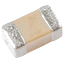
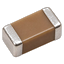
v3.2: light theme matching live xinhertz.top (white/#f3f7ff, --blue #0b5ed7); MLCC cursor rebuilt from user's real photo; soft contact shadow

diff --git a/index.html b/index.html
@@ -7,28 +7,26 @@
 <meta name="description" content="Test playground: SOP-16 viewed flat — slide across the package to reveal 'Xinhertz — NXP Distributor' printed on the mold. MLCC cursor.">
 <style>
   :root{
-    --bg:#070b14; --ink:#e8eef7; --dim:#9aa7bd;
-    --xray:#7fd4ff; --gold:#ffd27f;
+    --bg:#ffffff; --bg2:#f3f7ff; --text:#12233f; --muted:#5b7194; --line:#d9e5fa;
+    --blue:#0b5ed7; --blue-dark:#0849a8; --gold:#ffd27f;
   }
   *{ margin:0; padding:0; box-sizing:border-box; }
   html,body{ height:100%; }
   body{
-    background:
-      radial-gradient(1100px 600px at 78% 30%, rgba(64,120,220,.14), transparent 60%),
-      radial-gradient(800px 500px at 12% 85%, rgba(127,212,255,.06), transparent 60%),
-      var(--bg);
-    color:var(--ink);
+    background:linear-gradient(180deg,#f3f7ff 0%,#ffffff 100%);
+    background-attachment:fixed;
+    color:var(--text);
     font-family:"Inter","Helvetica Neue",Arial,"PingFang SC","Microsoft YaHei",sans-serif;
     overflow-x:hidden;
   }
-  /* ---- MLCC capacitor cursor (3/4 angle), site-wide (demo) ---- */
-  body, body *{ cursor:url('assets/mlcc-cursor.png') 10 50, auto !important; }
+  /* ---- MLCC capacitor cursor (user's real photo), site-wide (demo) ---- */
+  body, body *{ cursor:url('assets/mlcc-cursor.png') 8 52, auto !important; }
 
   .grid-bg{
     position:fixed; inset:0; pointer-events:none; opacity:.5;
     background-image:
-      linear-gradient(rgba(127,212,255,.045) 1px, transparent 1px),
-      linear-gradient(90deg, rgba(127,212,255,.045) 1px, transparent 1px);
+      linear-gradient(rgba(11,94,215,.055) 1px, transparent 1px),
+      linear-gradient(90deg, rgba(11,94,215,.055) 1px, transparent 1px);
     background-size:44px 44px;
     -webkit-mask-image:radial-gradient(ellipse 90% 80% at 50% 40%, black 30%, transparent 75%);
     mask-image:radial-gradient(ellipse 90% 80% at 50% 40%, black 30%, transparent 75%);
@@ -36,8 +34,8 @@
 
   .badge{
     position:fixed; top:18px; right:20px; z-index:20;
-    font-size:11px; letter-spacing:.22em; color:#0a0f1a;
-    background:linear-gradient(135deg,var(--gold),#ffb35c);
+    font-size:11px; letter-spacing:.22em; color:#fff;
+    background:var(--blue);
     padding:7px 14px; border-radius:999px; font-weight:700;
   }
 
@@ -47,27 +45,27 @@
     align-items:center; padding:72px 40px 40px; position:relative; z-index:2;
   }
   .eyebrow{
-    font-size:12px; letter-spacing:.34em; color:var(--xray);
+    font-size:12px; letter-spacing:.34em; color:var(--blue);
     margin-bottom:22px; font-weight:600;
   }
   h1{
     font-size:clamp(40px,5.2vw,72px); line-height:1.04; font-weight:800;
     letter-spacing:-0.01em; margin-bottom:20px;
   }
-  h1 .x{ color:var(--xray); }
-  .sub{ font-size:16.5px; line-height:1.75; color:var(--dim); max-width:46ch; margin-bottom:30px; }
-  .sub b{ color:var(--ink); font-weight:600; }
+  h1 .x{ color:var(--blue); }
+  .sub{ font-size:16.5px; line-height:1.75; color:var(--muted); max-width:46ch; margin-bottom:30px; }
+  .sub b{ color:var(--text); font-weight:600; }
   .hint{
     display:inline-flex; align-items:center; gap:10px;
-    border:1px solid rgba(127,212,255,.35); border-radius:999px;
-    padding:10px 18px; font-size:13.5px; color:#cfe9ff;
-    background:rgba(20,40,70,.35);
+    border:1px solid var(--line); border-radius:999px;
+    padding:10px 18px; font-size:13.5px; color:var(--text);
+    background:#fff; box-shadow:0 6px 20px rgba(11,94,215,.08);
   }
-  .hint .dot{ width:9px; height:9px; border-radius:50%; background:var(--xray);
-    box-shadow:0 0 12px var(--xray); animation:pulse 1.8s infinite; }
+  .hint .dot{ width:9px; height:9px; border-radius:50%; background:var(--blue);
+    box-shadow:0 0 12px rgba(11,94,215,.6); animation:pulse 1.8s infinite; }
   @keyframes pulse{ 0%,100%{opacity:1; transform:scale(1);} 50%{opacity:.45; transform:scale(.8);} }
-  .meta{ margin-top:34px; font-size:12px; color:#5c6a84; letter-spacing:.06em; line-height:2; }
-  .meta code{ color:#8fa0bb; background:rgba(255,255,255,.05); padding:2px 8px; border-radius:6px; }
+  .meta{ margin-top:34px; font-size:12px; color:#9aa3b2; letter-spacing:.06em; line-height:2; }
+  .meta code{ color:var(--muted); background:#eef4ff; padding:2px 8px; border-radius:6px; }
 
   #stage{ position:relative; height:min(78vh,640px); min-height:420px; }
   #stage canvas{ position:absolute; inset:0; width:100%; height:100%; display:block; }
@@ -78,7 +76,7 @@
   #fallback img{ max-width:70%; border-radius:12px; }
 
   .foot{ position:relative; z-index:2; text-align:center; padding:0 20px 26px;
-    font-size:11.5px; color:#4c5a74; letter-spacing:.12em; }
+    font-size:11.5px; color:#9aa3b2; letter-spacing:.12em; }
 
   @media (max-width:900px){
     .hero{ grid-template-columns:1fr; padding:84px 22px 20px; }
@@ -107,7 +105,7 @@
     <div class="meta">
       TEST PLAYGROUND — not the live site.<br>
       Repo: <code>chipquay/xinhertz-hero-xray-test</code><br>
-      Cursor: MLCC capacitor icon at 3/4 angle (AI-generated), applied site-wide.
+      Cursor: MLCC capacitor icon (from your photo), applied site-wide.
     </div>
   </section>
 
@@ -242,6 +240,24 @@ for (const s of [-1, 1]){
     chip.add(pin);
   }
 }
+
+// soft contact shadow (grounds the chip on the light background)
+function shadowTexture(){
+  const c = document.createElement('canvas'); c.width = 256; c.height = 256;
+  const g = c.getContext('2d');
+  const grad = g.createRadialGradient(128,128,10,128,128,126);
+  grad.addColorStop(0,'rgba(18,35,63,0.34)');
+  grad.addColorStop(0.6,'rgba(18,35,63,0.12)');
+  grad.addColorStop(1,'rgba(18,35,63,0)');
+  g.fillStyle = grad; g.fillRect(0,0,256,256);
+  return new THREE.CanvasTexture(c);
+}
+const shadow = new THREE.Mesh(
+  new THREE.PlaneGeometry(13.5, 8.5),
+  new THREE.MeshBasicMaterial({ map:shadowTexture(), transparent:true, depthWrite:false, opacity:0.85 })
+);
+shadow.rotation.x = -Math.PI/2; shadow.position.y = 0.015;
+chip.add(shadow);
 
 // invisible hover volume (stable raycast target)
 const hoverBox = new THREE.Mesh(
